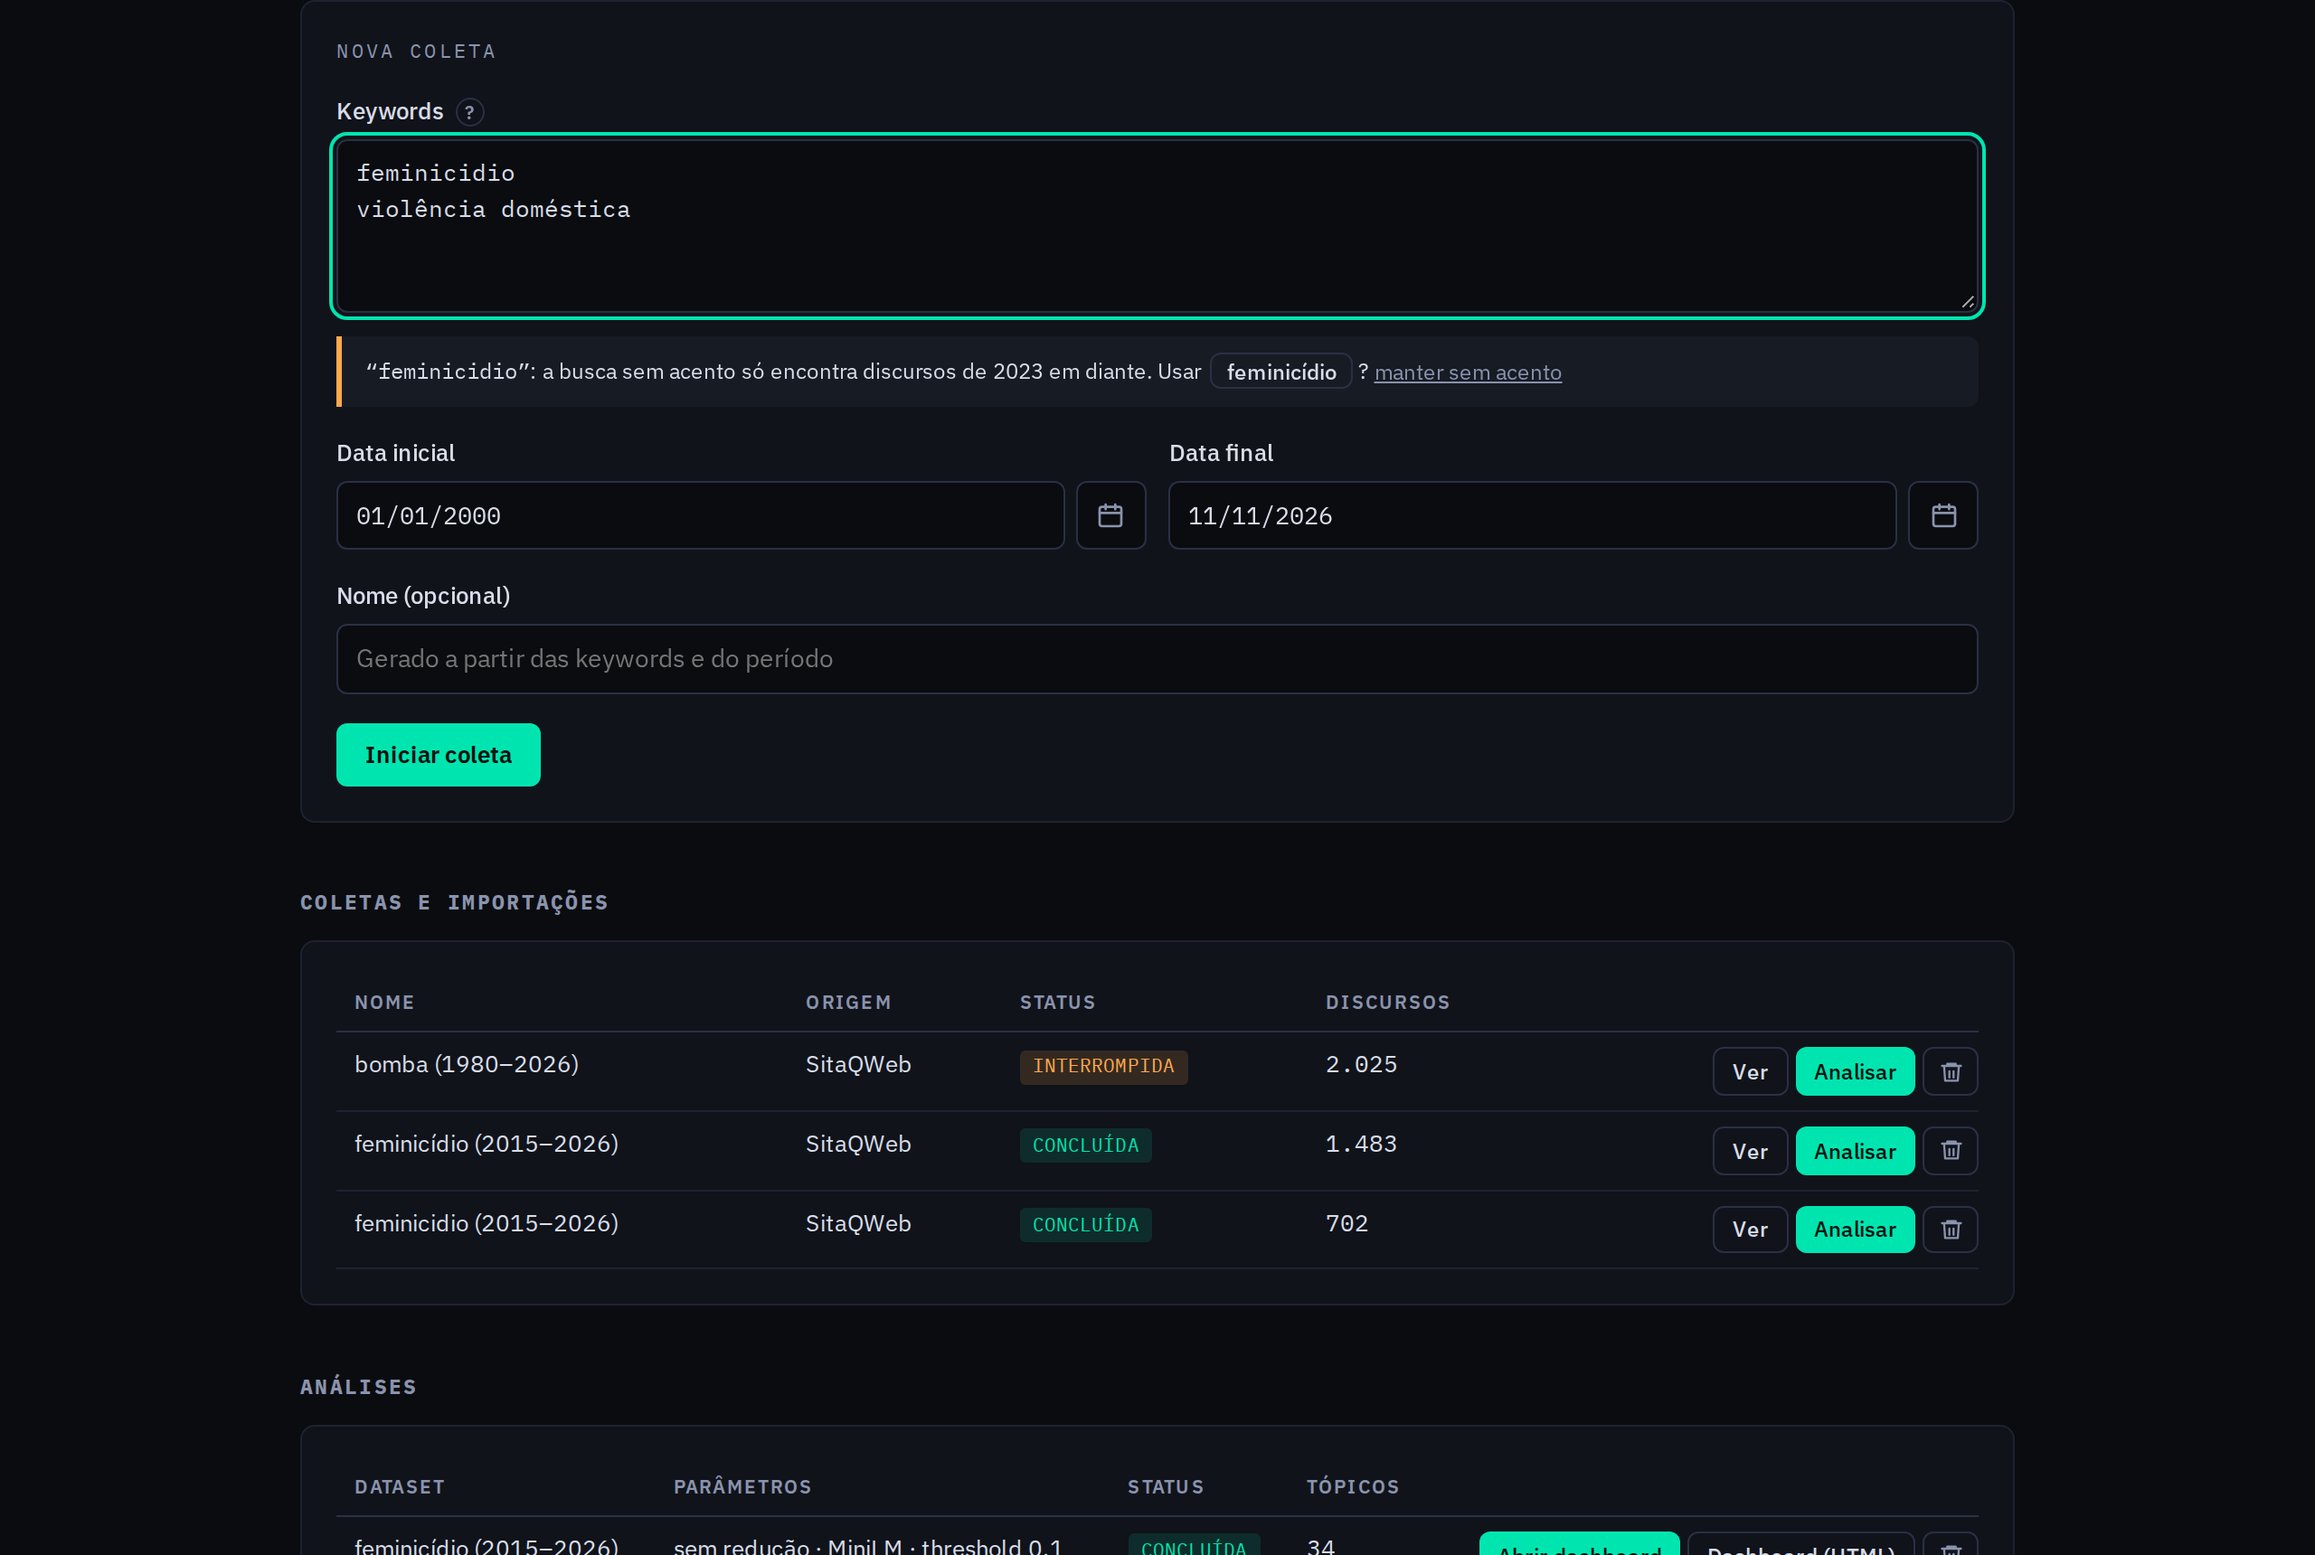
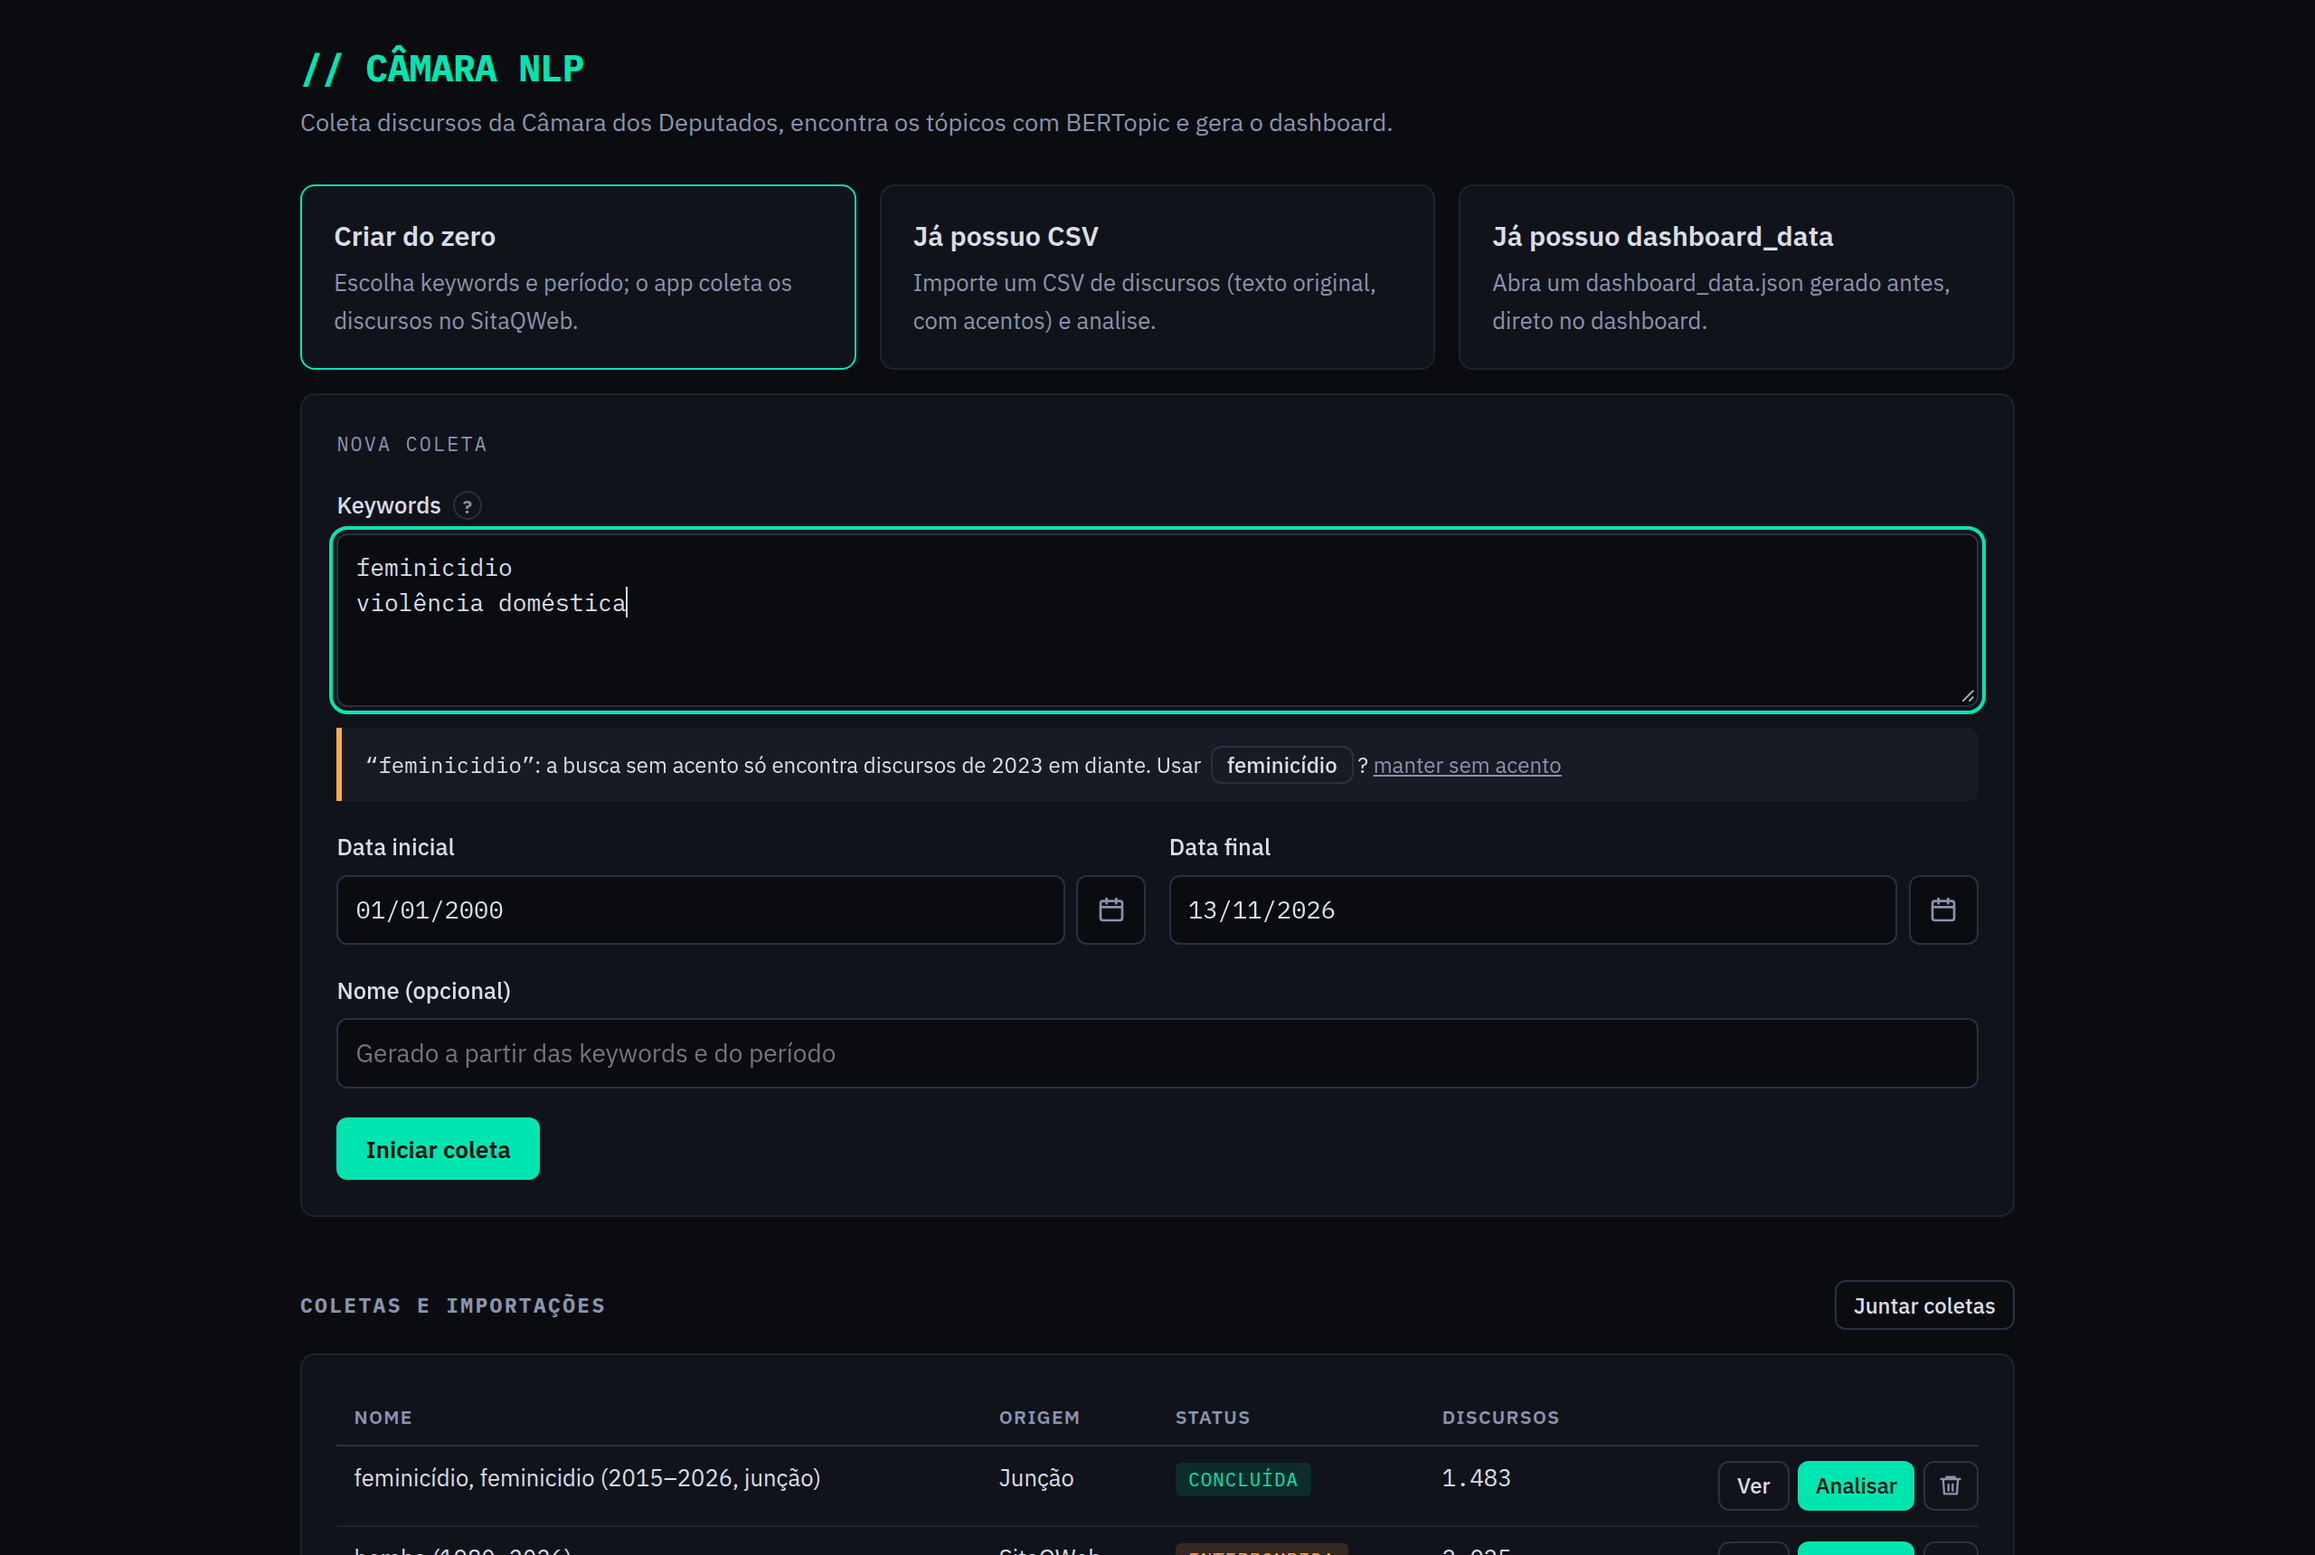
docs: refresh the README screenshots and document the new features
Retake the three screenshots with the bge-m3 consensus analysis, and add
the 2D map, characteristic words, top deputies, collection merging and
the missing endpoints.

diff --git a/README.md b/README.md
@@ -10,9 +10,9 @@ O projeto nasceu de uma pesquisa sobre violência contra a mulher no discurso pa
 
 ## O que ele faz
 
-1. **Coleta** os discursos que citam as keywords num período, com orador, partido, estado, fase da sessão e texto completo, direto do [SitaQWeb](https://www.camara.leg.br/internet/sitaqweb/pesquisaDiscursos.asp). Também aceita importar um CSV.
+1. **Coleta** os discursos que citam as keywords num período, com orador, partido, estado, fase da sessão e texto completo, direto do [SitaQWeb](https://www.camara.leg.br/internet/sitaqweb/pesquisaDiscursos.asp). Também aceita importar um CSV e juntar coletas.
 2. **Analisa**: limpa o texto (cabeçalhos, falas da Presidência, vocativos), gera embeddings, agrupa em tópicos e dá um rótulo a cada tópico.
-3. **Mostra** tudo num dashboard com sete abas: visão geral, esquerda × direita, tópicos, regiões, partidos, vocabulário e estatísticas. Os gráficos saem em PNG, e o dashboard pode ser exportado como um HTML único que abre sem o app.
+3. **Mostra** tudo num dashboard com sete abas: visão geral, esquerda × direita, tópicos (com um mapa 2D dos discursos), regiões, partidos (com os deputados que mais discursaram), vocabulário (as palavras características de cada espectro) e estatísticas (testes de tendência). Os gráficos saem em PNG, com fundo escuro ou claro, e o dashboard pode ser exportado como um HTML único que abre sem o app.
 
 ## Instalação
 
@@ -49,7 +49,7 @@ Abra <http://127.0.0.1:8000>. Há três jeitos de começar:
 - **Já possuo CSV**: colunas `Data, Sessao, Orador, Partido, Estado, Fase, Hora, Discurso`, em UTF-8 e com acentos.
 - **Já possuo dashboard_data**: abre um `dashboard_data.json` gerado antes.
 
-![Formulário de nova coleta, com a sugestão de acento](assets/coleta.png)
+![Tela inicial: formulário de nova coleta, com a sugestão de acento, e a tabela de coletas](assets/coleta.png)
 
 > [!IMPORTANT]
 > **Escreva as keywords com acento.** O índice do SitaQWeb mudou no fim de 2022: discursos até 2022 só são encontrados pela forma acentuada. "feminicídio" encontra 1.483 discursos de 2015 a 2026; "feminicidio", só 702. O app busca a forma sem acento junto, mas não consegue adivinhar a acentuada, por isso o formulário sugere a correção.
@@ -67,7 +67,7 @@ Depois da coleta, **Configurar análise** pede:
 
 O formulário estima o tempo antes de rodar. Os embeddings ficam guardados: mudar o número de tópicos ou o threshold não recalcula tudo.
 
-![Aba de tópicos do dashboard](assets/dashboard-topicos.png)
+![Aba Tópicos do dashboard: mapa dos discursos, tópicos por espectro e evolução dos tópicos](assets/dashboard-topicos.png)
 
 ## API
 
@@ -96,14 +96,17 @@ curl -O http://127.0.0.1:8000/api/runs/1/discursos_processados.csv
 |---|---|
 | `GET /api/datasets` · `GET /api/datasets/{id}` | Lista coletas e importações |
 | `POST /api/datasets/scrape` | Inicia uma coleta |
+| `GET /api/datasets/{id}/events` | Progresso da coleta (SSE) |
 | `POST /api/datasets/import` | Importa um CSV (multipart, campo `file`) |
 | `POST /api/datasets/{id}/resume` | Retoma uma coleta interrompida |
 | `GET /api/datasets/merge/preview?ids=1&ids=2` · `POST /api/datasets/merge` | Prévia e criação de uma junção de coletas (`{"dataset_ids": [1, 2]}`) |
 | `GET /api/datasets/{id}/csv` | Baixa os discursos coletados |
 | `GET /api/accents?words=...` | Formas acentuadas de palavras digitadas sem acento |
 | `GET /api/estimate?dataset_id=...` | Estimativa de tempo da análise |
+| `GET /api/runs` | Lista as análises |
 | `POST /api/runs` · `GET /api/runs/{id}` | Inicia e acompanha uma análise |
 | `GET /api/runs/{id}/events` | Progresso da análise (SSE) |
+| `GET /api/runs/{id}/dashboard_data.json` · `.../discursos_processados.csv` · `.../dashboard.html` | Resultados: dados do dashboard, CSV com o tópico de cada discurso e dashboard em HTML único |
 | `GET /api/methodology` | Parâmetros de cada etapa, para a seção de métodos |
 | `DELETE /api/datasets/{id}` · `DELETE /api/runs/{id}` | Exclui coleta ou análise |
 
@@ -138,6 +141,8 @@ A CLI faz só as tendências por contagem: ela não busca o total de discursos d
 | Agrupamento | UMAP (5 dimensões, cosseno) → HDBSCAN (`min_cluster_size` = máx(piso do modelo, 1% dos discursos)), 15 vezes com sementes diferentes. Os tópicos são os grupos de discursos que ficam juntos em mais da metade das rodadas (consenso por ligação média sobre a matriz de coassociação). Discursos sem consenso vão para o tópico mais próximo e ficam marcados (`Topico_reatribuido`); `Topico_certeza` é a fração das rodadas em que cada discurso ficou com o próprio tópico |
 | Rótulos | c-TF-IDF só com substantivos, nomes próprios, adjetivos e particípios (spaCy); saem as palavras presentes em ≥50% dos discursos, que costumam ser as próprias keywords |
 | Ideologia | Partidos classificados segundo Bolognesi, Ribeiro & Codato (2023) |
+| Vocabulário | Palavras características de cada espectro: log-odds com prior de Dirichlet informativo (Monroe, Colaresi & Quinn, 2008), cada espectro contra os outros dois, contando em quantos discursos cada palavra aparece |
+| Mapa | Uma rodada de UMAP em 2 dimensões sobre os mesmos embeddings, só para visualização (os tópicos vêm do agrupamento em 5 dimensões) |
 | Tendências | Mann-Kendall anual (5+ anos completos) e sazonal (Hirsch & Slack, 1984), sobre a contagem e sobre a proporção em relação ao total de discursos do Plenário no mês. Nos espectros, também a proporção ÷ fatia do espectro nas cadeiras na posse de cada legislatura (API Dados Abertos). A série começa no mês do primeiro discurso encontrado, não na data pesquisada |
 
 A aba **Estatísticas** do dashboard e o endpoint `/api/methodology` exportam os parâmetros usados em cada análise, prontos para a seção de métodos.
